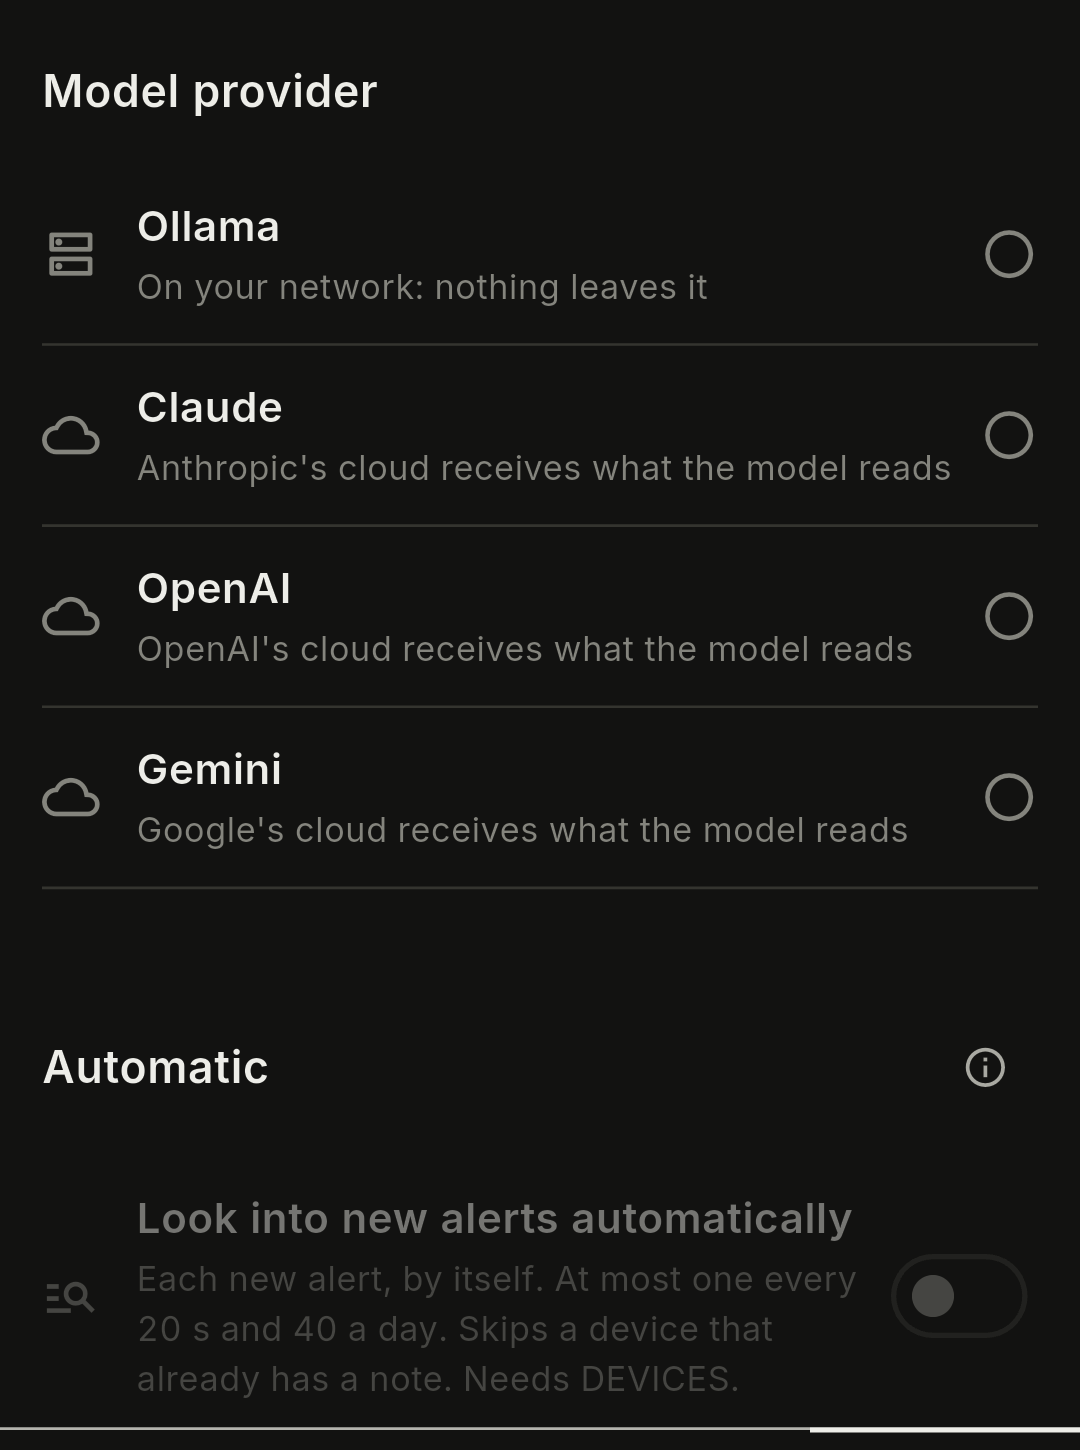
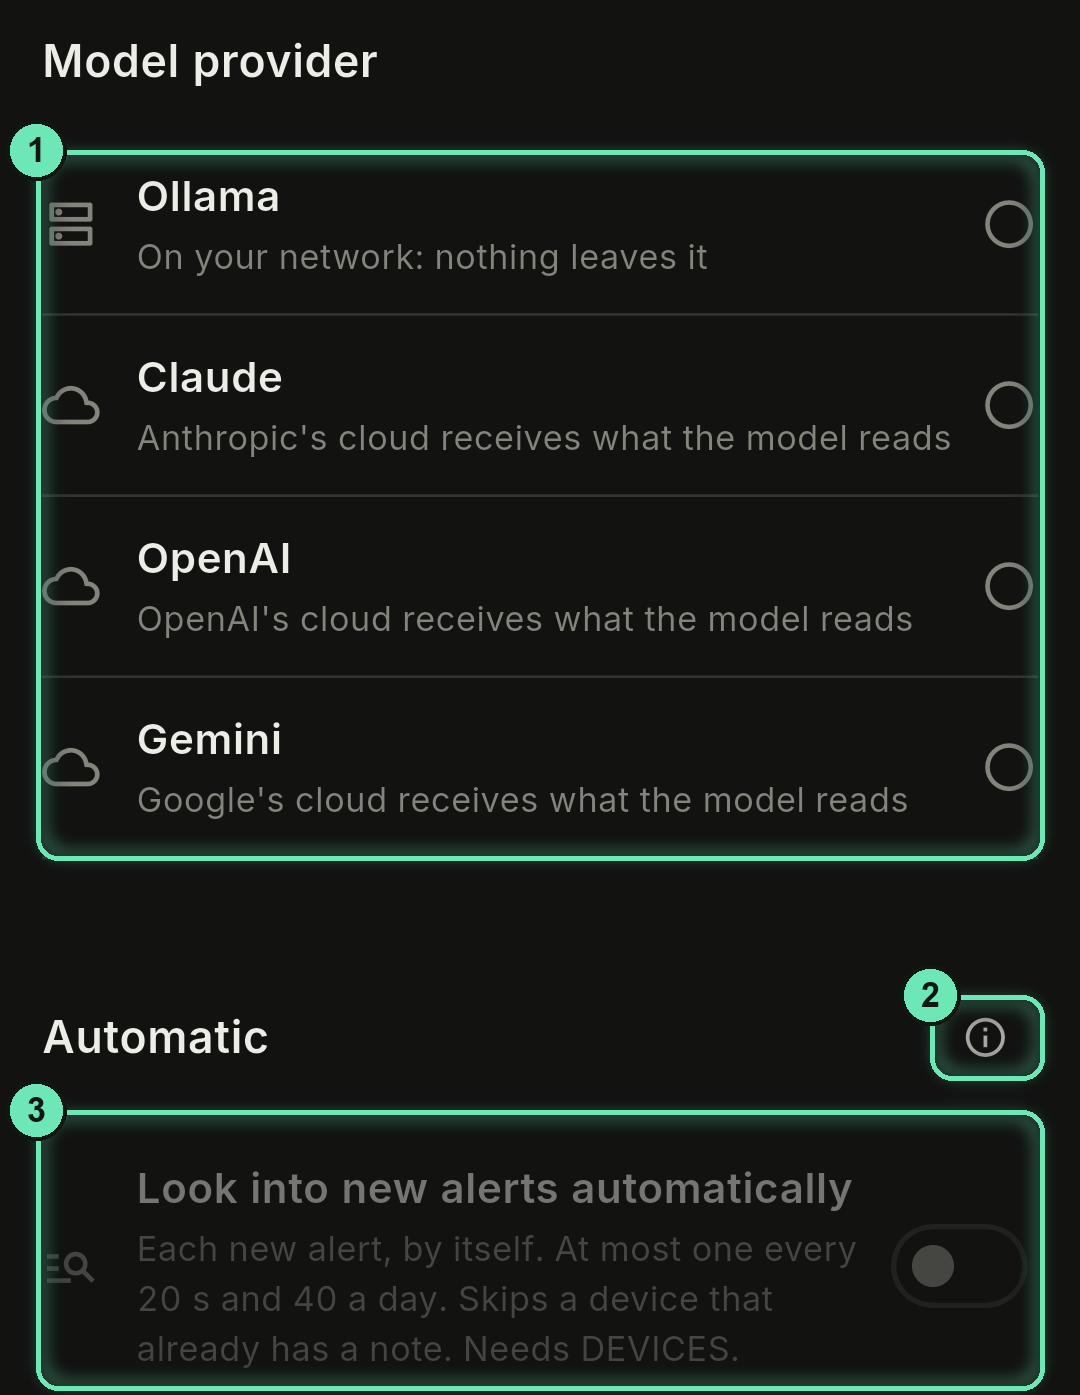
docs: annotated shots and callout lists

Changed region(s): [[0.0, 0.0308, 0.9778, 0.6165], [0.0, 0.6781, 1.0, 1.0], [0.825, 0.8631, 0.8861, 0.9247]]

diff --git a/README.md b/README.md
@@ -404,7 +404,20 @@ The app saves Wi-Fi, BLE or 802.15.4 traffic as PCAP files that Wireshark opens.
 
 On a XIAO ESP32-C5 the app finds analog 5.8 GHz FPV video transmitters. It receives only and shows no picture. Open it from the **FPV receiver** tile on HOME.
 
-<img width="300" src="docs/screenshots/ui/fpv-receiver.png" alt="FPV receiver locked on a transmitter on A8, 5725 MHz" />
+<table>
+  <tr>
+    <td width="50%" valign="top"><img width="300" src="docs/screenshots/ui/fpv-receiver.png" alt="FPV receiver locked on a transmitter on A8, 5725 MHz" /></td>
+    <td width="50%" valign="top">
+      <ol>
+        <li><b>Status</b>: LOCKED, TUNED or the running mode, the channel, its level, coherence and noise floor, and how many channels are flagged.</li>
+        <li><b>Proximity</b>: the needle moves toward CLOSE as the tuned channel rises above the floor.</li>
+        <li><b>LEAVE FPV</b>: stops the receiver and restarts the Wi-Fi engines.</li>
+        <li><b>Modes</b>: SCAN, SWEEP or HOP.</li>
+        <li><b>Channel</b>: the arrows step to the previous or next channel and hold it.</li>
+        <li><b>Channels</b>: brighter is stronger, a bolt marks a flagged transmitter, and tapping a cell holds that channel.</li>
+      </ol></td>
+  </tr>
+</table>
 
 - **Channels:** the six standard bands A, B, E, F, R and L, 48 channels in all. The C5 tunes 5180–5885 MHz, so R8, E6, E7 and E8 show as N/A. L-band is below the C5's Wi-Fi channels and is experimental.
 - **Modes:** **SCAN** measures every channel once, then stops on the strongest transmitter. If none is flagged, it stops on the loudest channel above the threshold. **SWEEP** repeats the measurement and keeps the heat map live. **HOP** visits each flagged channel for 2 s between sweeps. The arrows step to the previous or next channel, and tapping a cell in the heat map holds that channel. **LEAVE FPV** stops the receiver.
@@ -434,7 +447,17 @@ The app sends catches and Remote ID drones to ATAK as Cursor-on-Target markers o
 
 A language model can read what the app has seen and, when you allow it, change things. It is off by default. Turn it on in SETTINGS → DATA → **Assistant**, pick a model provider, then tap **Open the assistant**.
 
-<img width="300" src="docs/screenshots/ui/assistant-settings.png" alt="Assistant settings: model providers and the Automatic section, off by default" />
+<table>
+  <tr>
+    <td width="50%" valign="top"><img width="300" src="docs/screenshots/ui/assistant-settings.png" alt="Assistant settings: model providers and the Automatic section, off by default" /></td>
+    <td width="50%" valign="top">
+      <ol>
+        <li><b>Model provider</b>: Ollama on your network, or Claude, OpenAI or Gemini in the cloud.</li>
+        <li><b>ⓘ</b>: what the automatic features send and when.</li>
+        <li><b>Automatic</b>: alert lookups and scheduled reports. Both are off until you turn them on.</li>
+      </ol></td>
+  </tr>
+</table>
 
 - **Providers:** Ollama (a computer on your network, default port 11434), Claude, OpenAI or Gemini. A cloud provider asks for your OK once, then receives your questions and everything the model reads within the grants. Ollama keeps it all on your network, over plain http unless you give an https address. On Android, plain http to a LAN address may be blocked by the system; use https or a tunnel if the **Check** button fails.
 - **API keys** are kept in the phone's secure storage and sent only to their provider. They never go in settings, logs or exports. **Remove key** deletes one.
@@ -638,8 +661,19 @@ Detector MAC, OUI and UUID targets, their labels, and signatures set in the app 
 
 <table>
   <tr>
-    <td width="50%" valign="top"><img width="300" src="docs/screenshots/ui/mesh-channel.png" alt="Mesh channel: the current channel and the move control" /><br><sub>SETTINGS → NODE → MESH → <b>Channel</b></sub></td>
-    <td width="50%" valign="top"><img width="300" src="docs/screenshots/ui/fleet-metrics.png" alt="Fleet metrics, Detections view: totals and detections over time" /><br><sub><b>Fleet metrics</b>, Detections view</sub></td>
+    <td width="50%" valign="top"><img width="300" src="docs/screenshots/ui/mesh-channel.png" alt="Mesh channel: the current channel and the move control" />
+      <ol>
+        <li><b>Channel ⓘ</b>: how a move works.</li>
+        <li><b>Channel now</b>: the mesh's current channel.</li>
+        <li><b>Picker</b>: the channel to move to, 1 to 11.</li>
+        <li><b>Move fleet</b>: asks every node to confirm, then all switch together.</li>
+      </ol></td>
+    <td width="50%" valign="top"><img width="300" src="docs/screenshots/ui/fleet-metrics.png" alt="Fleet metrics, Detections view: totals and detections over time" />
+      <ol>
+        <li><b>Totals</b>: detections, change against the span before, unique and new devices, active nodes and the busiest period.</li>
+        <li><b>BLE / Wi-Fi</b>: unique devices on each radio.</li>
+        <li><b>Over time</b>: detections per period in the chosen span.</li>
+      </ol></td>
   </tr>
 </table>
 
